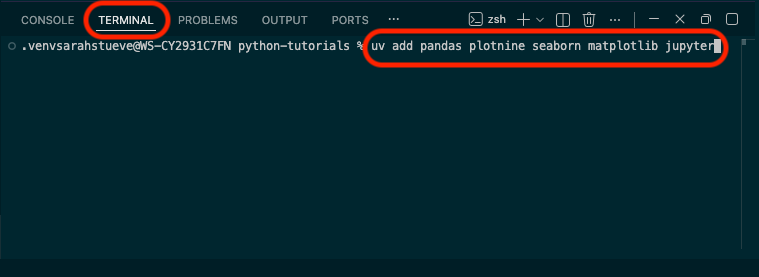
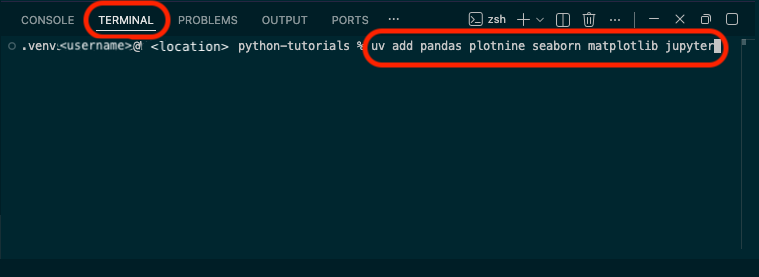
Finished edits to setup file, included two different package managers.

Changed region(s): [[0.0606, 0.1155, 0.303, 0.2022]]

diff --git a/docs/setup.html b/docs/setup.html
@@ -279,18 +279,96 @@ gtag('config', 'G-NH7HMX9RVC', { 'anonymize_ip': true});
 </ol>
 <p>And then finally click <code>Install</code> on the <code>Ready to Install</code> page: <img src="figures/setup/win-vscode-install.png" class="img-fluid" alt="Windows ready to install VSCode"></p>
 <p>Once the app finishes installing, you’re ready to go!</p>
-<!-- ### Last but not least: installing packages
-
-This is where, long-term, Python can be difficult, *but* you shouldn't have problems with most (if not all) of the packages used in these tutorials. 
-
-Let's start with a metaphor. Imagine you open your computer and get started with what you want to do during the day. Maybe you open your email app. Maybe you open the Zoom app. Maybe you open your internet browser. Each of those applications has a specific purpose, right? So, you open each of them when you need to complete a task that requires them.
-
-We have something similar in Python and they're called **packages**! Before we complete a task that requires specific features in Python, we often need to install a package (like our email in the earlier metaphor) in order to use it.
-
-The classic method for installing packages in Python involves using `pip`. Each of the tutorials will outline the packages that need to be installed, but I'll provide a some that you will need and that I would recommend here.
-
-To install packages, we're actually going to open up a separate app that your computer has by default. On Mac, this will be your `Terminal`, and on Windows this will be `PowerShell`.  -->
 </section>
+</section>
+<section id="create-a-new-folder-for-tutorials" class="level3">
+<h3 class="anchored" data-anchor-id="create-a-new-folder-for-tutorials">Create a new folder for tutorials</h3>
+<p>Open up the VSCode application we just installed. When you do, you’ll see the <em>Welcome</em> page. Click on the option to <code>Open...</code> a folder or file:</p>
+<div class="quarto-figure quarto-figure-center">
+<figure class="figure">
+<p><img src="figures/setup/vscode_welcome_page.png" class="img-fluid figure-img"></p>
+<figcaption>VSCode Welcome page with <code>Open...</code> highlighted</figcaption>
+</figure>
+</div>
+<p>When the file management system opens up, choose the folder you would like to Open. If you have created a folder already, open that one! Otherwise, create a <code>New Folder</code> in the place you want it to be saved:</p>
+<section id="mac-3" class="level4">
+<h4 class="anchored" data-anchor-id="mac-3">Mac</h4>
+<div class="quarto-figure quarto-figure-center">
+<figure class="figure">
+<p><img src="figures/setup/finder_new_folder.png" class="img-fluid figure-img"></p>
+<figcaption>Mac file management system (Finder) window</figcaption>
+</figure>
+</div>
+</section>
+<section id="windows-3" class="level4">
+<h4 class="anchored" data-anchor-id="windows-3">Windows</h4>
+<div class="quarto-figure quarto-figure-center">
+<figure class="figure">
+<p><img src="figures/setup/file_explorer_new_folder.png" class="img-fluid figure-img"></p>
+<figcaption>Windows file management system (File Explorer) window</figcaption>
+</figure>
+</div>
+</section>
+</section>
+<section id="last-but-not-least-installing-packages" class="level3">
+<h3 class="anchored" data-anchor-id="last-but-not-least-installing-packages">Last but not least: installing packages</h3>
+<p>This is where, long-term, Python can be difficult, <em>but</em> you shouldn’t have problems with most (if not all) of the packages used in these tutorials.</p>
+<p>Let’s start with a metaphor. Imagine you open your computer and get started with what you want to do during the day. Maybe you open your email app. Maybe you open the Zoom app. Maybe you open your internet browser. Each of those applications has a specific purpose, right? So, you open each of them when you need to complete a task that requires them.</p>
+<p>We have something similar in Python and they’re called <strong>packages</strong>! Before we complete a task that requires specific features in Python, we often need to install a package (like our email app in the earlier metaphor) in order to use it.</p>
+<p>This tutorial provides two options for Python “package managers”:</p>
+<section id="using-uv-recommended" class="level4">
+<h4 class="anchored" data-anchor-id="using-uv-recommended">Using <code>uv</code> (recommended)</h4>
+<p><code>uv</code> is a newer Python package manager (it makes sure all our “apps” work together) and it’s extremely fast. It’s also reliable for managing conflicting dependencies (apps/packages that don’t work together). I will recommend using <code>uv</code> instead of <code>pip</code> to make sure you’re starting off on the right foot when it comes to tidy Python development.</p>
+<p>However, to install <code>uv</code>, we will (somewhat ironically) use <code>pip</code>. Open a new <code>Terminal</code> window using the <code>Terminal</code> tab in the top left corner of your screen or VSCode window. Once you have the <code>Terminal</code> open, run the following command:</p>
+<pre class="{bash}"><code>pip install uv</code></pre>
+<p>Once you have <code>uv</code> installed, we’re going to initialize the <code>uv</code> project. <code>uv</code> treats folders as “Projects”, similar to some other programming languages. So, first we need to initialize the project:</p>
+<pre class="{bash}"><code>uv init</code></pre>
+<p>Then, we tell <code>uv</code> to make what we call a “virtual environment”. You can think of it kinda like a sandbox, where the sand is all the “apps”/packages that we want to play nicely in our environment. It does <em>not</em> affect the rest of your Python environment, so if something goes wrong (which does happen in Python), it’s easy to recreate. It also makes it easier to share what exact packages you used to run your Python code. You should create one of these for each of your projects. To create the virtual environment, type:</p>
+<pre class="{bash}"><code>uv venv</code></pre>
+<p>You should see a message telling you the virtual environment was created and also see a new folder in your left sidebar called <code>.venv</code>. Python (and VSCode) recognize this as an environment folder.</p>
+<p>Once the environment is created, we tell <code>uv</code> which packages we want to put in it. So, here’s an example command. It always starts with <code>uv add</code> followed by all of the packages you want to install, separated by spaces. Don’t worry - if you forget to add a package the first time you create the environment or need to add another one, you just run <code>uv add</code> again with the package you want to install.</p>
+<pre class="{bash}"><code>uv add pandas plotnine seaborn matplotlib jupyter</code></pre>
+<p>Here is what these commands look like in the VSCode <code>Terminal</code>:</p>
+<div class="quarto-figure quarto-figure-center">
+<figure class="figure">
+<p><img src="figures/setup/vscode-uv-create-venv.png" class="img-fluid figure-img"></p>
+<figcaption>VSCode, use uv in Terminal to create environment</figcaption>
+</figure>
+</div>
+<p>Finally, we run the command <code>uv sync</code> to make sure our environment and the project file created by uv (<code>pyproject.toml</code>) are synced together.</p>
+</section>
+<section id="using-pip-the-original" class="level4">
+<h4 class="anchored" data-anchor-id="using-pip-the-original">Using <code>pip</code> (the original)</h4>
+<p>The classic method for installing packages in Python involves using <code>pip</code>. Each of the tutorials will outline the packages that need to be installed, but I’ll provide a some that you will need and that I would recommend here.</p>
+<p>To install packages using <code>pip</code>, we’re actually going to open up a separate app that your computer has by default. On Mac, this will be your <code>Terminal</code>, and on Windows this will be <code>PowerShell</code>. You can search for your respective app using Spotlight Search on Mac (press <cmd><space> on your keyboard) or in the Windows menu.</space></cmd></p>
+<p>Once you have your <code>Terminal</code> or <code>PowerShell</code> open, we’ll run this command:</p>
+<pre class="{bash}"><code>pip3 install pandas plotnine matplotlib seaborn jupyter</code></pre>
+</section>
+<section id="mac-4" class="level4">
+<h4 class="anchored" data-anchor-id="mac-4">Mac</h4>
+<div class="quarto-figure quarto-figure-center">
+<figure class="figure">
+<p><img src="figures/setup/terminal-pip-install.png" class="img-fluid figure-img"></p>
+<figcaption>Mac Terminal: pip install</figcaption>
+</figure>
+</div>
+</section>
+<section id="windows-4" class="level4">
+<h4 class="anchored" data-anchor-id="windows-4">Windows</h4>
+<div class="quarto-figure quarto-figure-center">
+<figure class="figure">
+<p><img src="figures/setup/powershell-pip.png" class="img-fluid figure-img"></p>
+<figcaption>Windows Powershell: pip install</figcaption>
+</figure>
+</div>
+<p>Once the packages are installed, you’re ready to create your first Jupyter Notebook (it’s an interactive document that allows us to both write code and take notes!).</p>
+</section>
+</section>
+<section id="create-a-new-jupyter-notebook-its-time-to-write-some-code" class="level3">
+<h3 class="anchored" data-anchor-id="create-a-new-jupyter-notebook-its-time-to-write-some-code">Create a new Jupyter Notebook: it’s time to write some code!</h3>
+<p>In the left side bar, click on the <code>New File...</code> icon <img src="figures/setup/new-file-icon.png" class="img-fluid"> and then type in the name of the file you want to create. Whatever it is, it has to include the file extension (think .docx, or .xlsx) <code>.ipynb</code> for “iPython Notebook”: <img src="figures/setup/positron-create-new-notebook.png" class="img-fluid" alt="Positron - create new file"></p>
+<p>To start writing code, the last step you’ll take is clicking on the <code>+Code</code> button at the top right of the new document to make a code block. <img src="figures/setup/positron-create-first-code-block.png" class="img-fluid" alt="Jupyter - create first code block"></p>
+<p>You’re ready to go!</p>
 </section>
 </div>
 </div>
